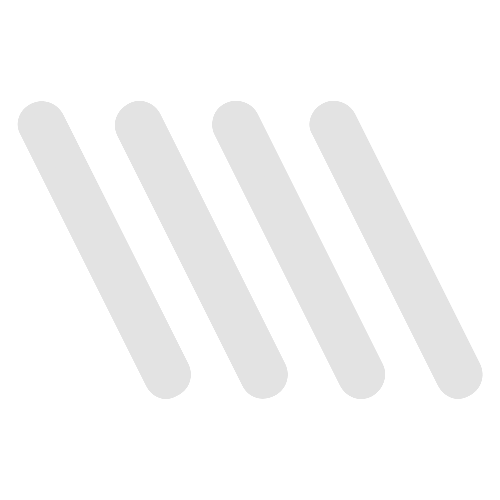
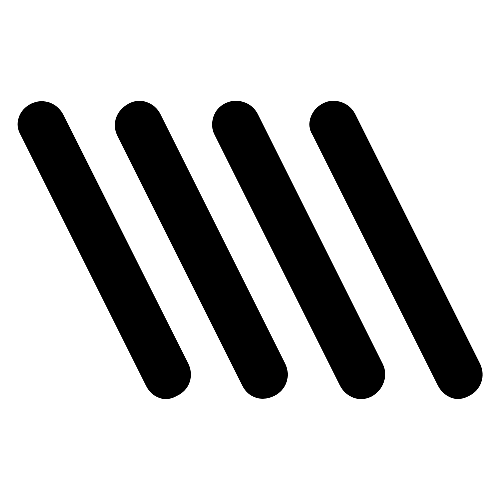
Major Changes Done.

diff --git a/src/components/Home.tsx b/src/components/Home.tsx
@@ -136,7 +136,7 @@ export default function Home({ is24Hour, selectedPlace = null }: HomeProps) {
                 weatherData.weatherCode
               )}.png`}
               alt="weather icon"
-              className="brightness-0 w-30"
+              className="w-30"
             />
           )}
         </div>
@@ -157,7 +157,7 @@ export default function Home({ is24Hour, selectedPlace = null }: HomeProps) {
                 <img
                   src="weather_icons/humidity_low.png"
                   alt="humidity_icon"
-                  className="brightness-0 w-5"
+                  className="w-5"
                 />
                 <p className="text-xl font-bold">{weatherData.humidity}%</p>
               </div>
